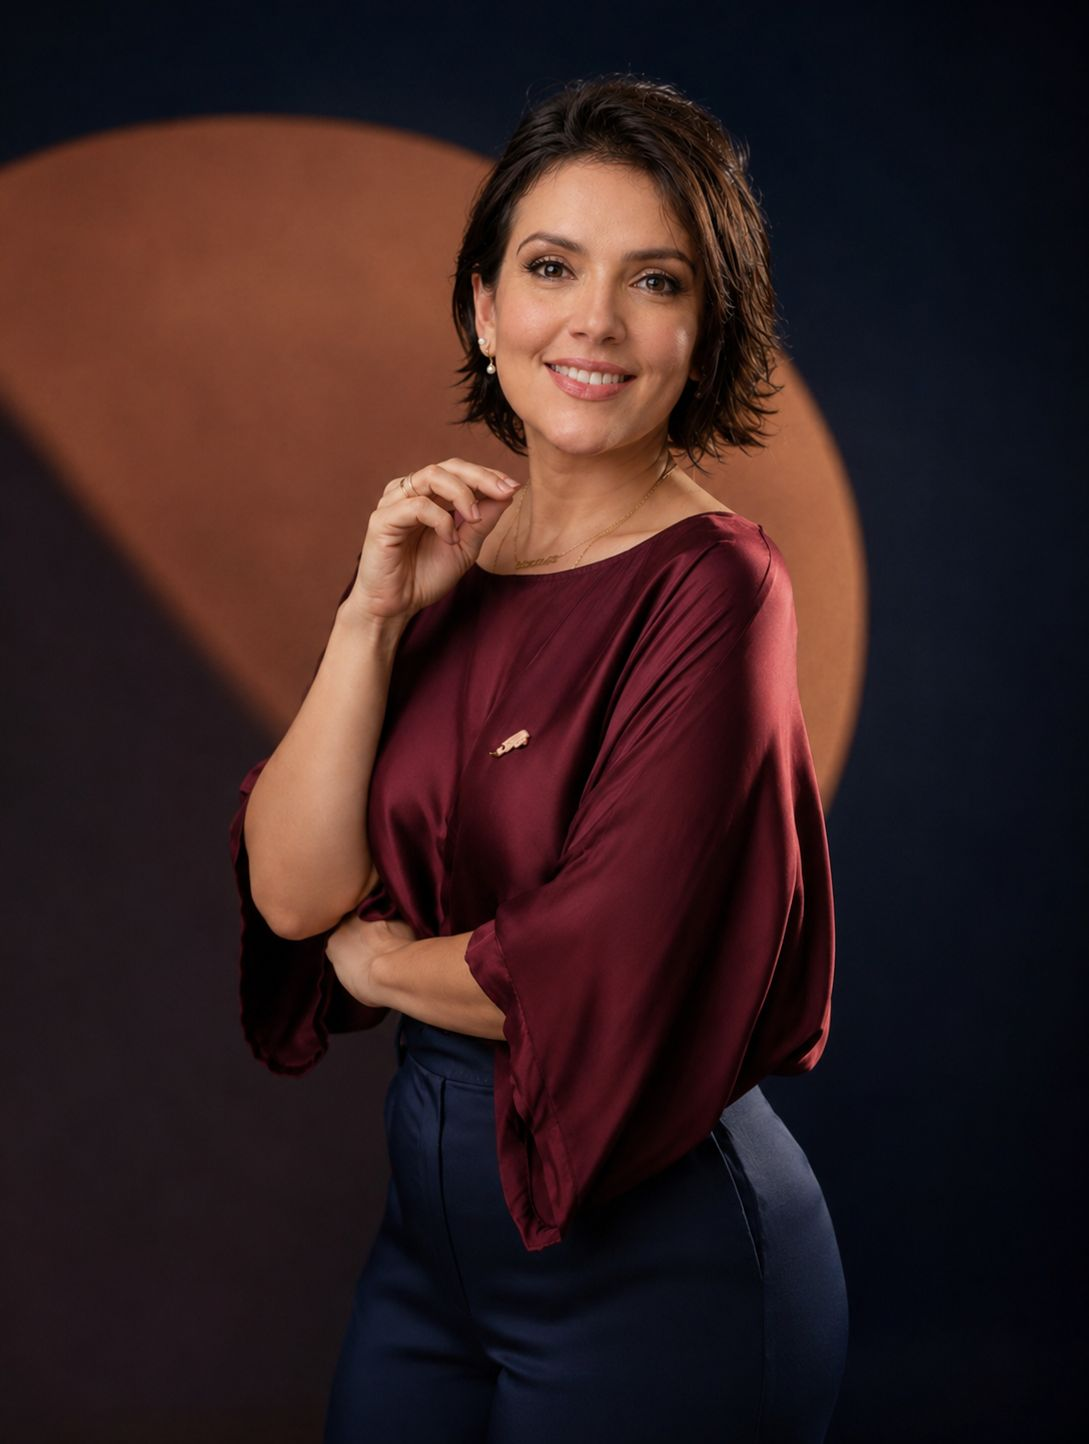
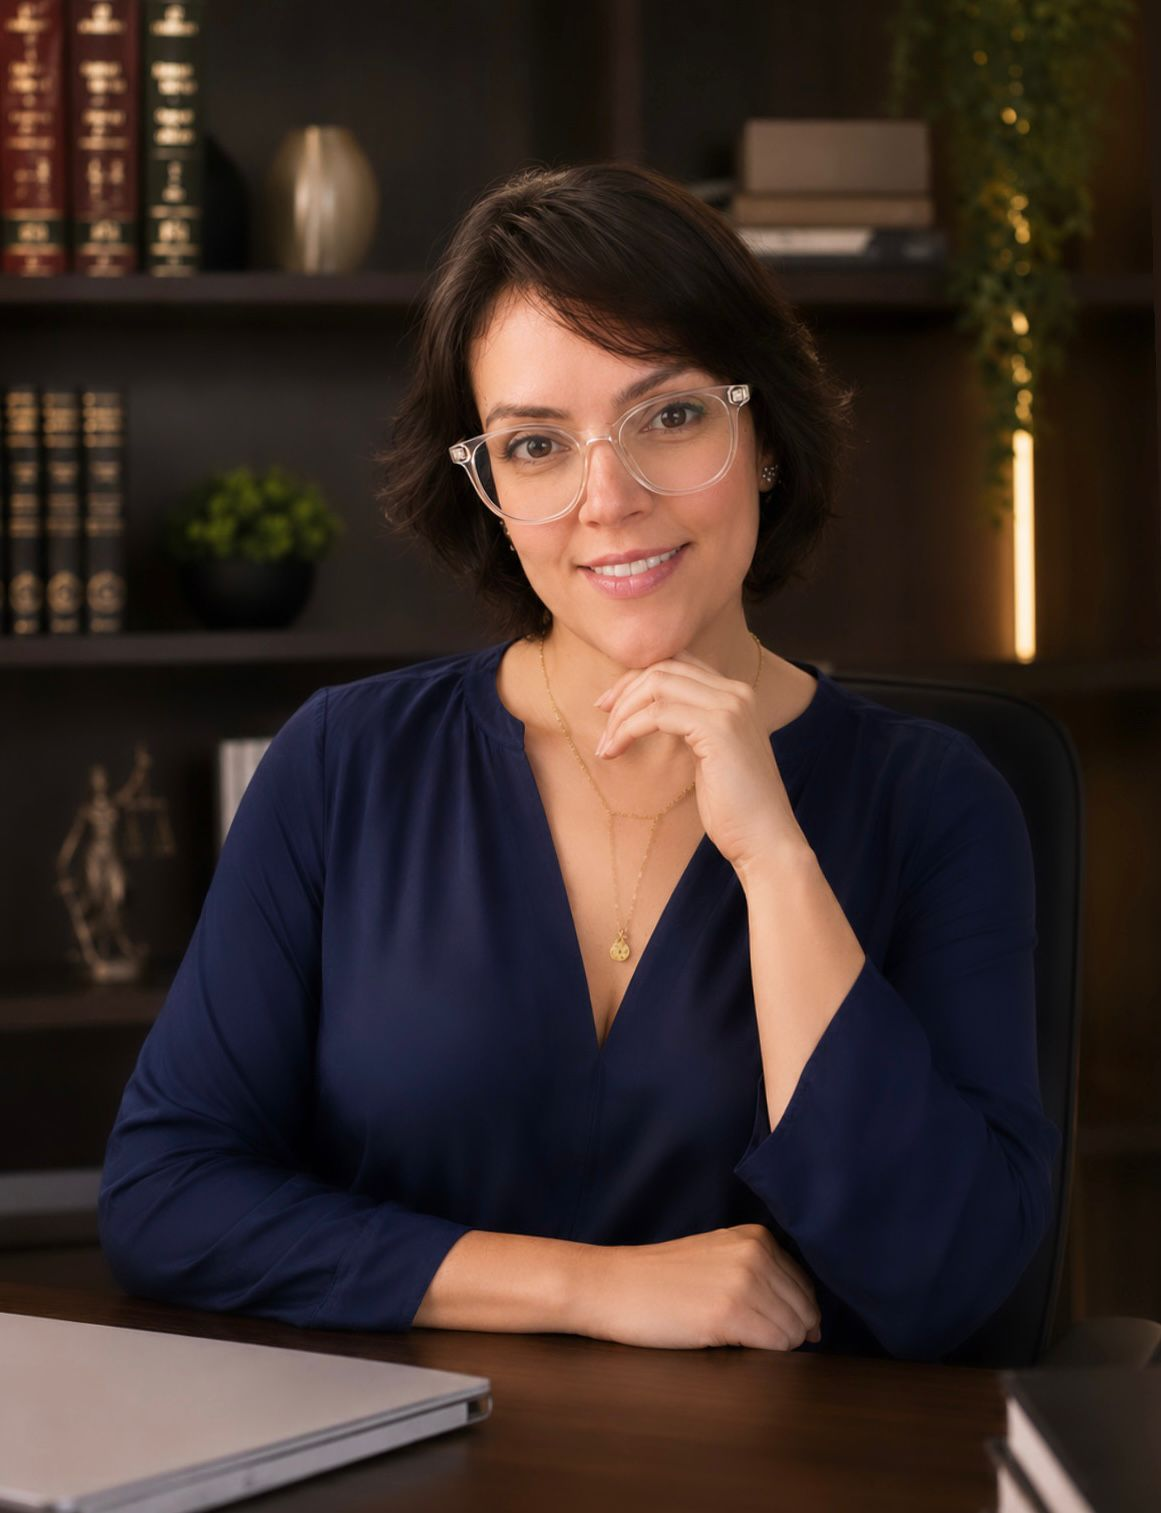
Troca foto profissional por nova imagem no escritorio + cache-busting v5

diff --git a/index.html b/index.html
@@ -10,14 +10,14 @@
   <meta property="og:title" content="Natalia Oliveira — Advocacia | Imigração para os EUA" />
   <meta property="og:description" content="Especialista em Imigração Estadunidense. Direito com Propósito." />
   <meta property="og:type" content="website" />
-  <meta property="og:image" content="assets/natalia.jpg" />
+  <meta property="og:image" content="assets/natalia.jpg?v=5" />
 
   <link rel="preconnect" href="https://fonts.googleapis.com" />
   <link rel="preconnect" href="https://fonts.gstatic.com" crossorigin />
   <link href="https://fonts.googleapis.com/css2?family=Cormorant+Garamond:wght@400;500;600;700&family=Jost:wght@300;400;500&display=swap" rel="stylesheet" />
 
-  <link rel="icon" type="image/svg+xml" href="assets/logo.svg?v=4" />
-  <link rel="stylesheet" href="styles.css?v=4" />
+  <link rel="icon" type="image/svg+xml" href="assets/logo.svg?v=5" />
+  <link rel="stylesheet" href="styles.css?v=5" />
 </head>
 <body>
 
@@ -25,7 +25,7 @@
   <header class="header" id="header">
     <div class="container header__inner">
       <a href="#inicio" class="brand" aria-label="Natalia Oliveira — início">
-        <img src="assets/logo.svg?v=4" alt="" class="brand__logo" />
+        <img src="assets/logo.svg?v=5" alt="" class="brand__logo" />
         <span class="brand__text">
           <strong>Natalia Oliveira</strong>
           <small data-pt="Advocacia" data-en="Attorney at Law">Advocacia</small>
@@ -78,7 +78,7 @@
     <div class="container sobre__grid">
       <div class="sobre__media reveal">
         <div class="sobre__photo">
-          <img src="assets/natalia.jpg" alt="Natalia Oliveira, advogada" loading="lazy" />
+          <img src="assets/natalia.jpg?v=5" alt="Natalia Oliveira, advogada" loading="lazy" />
         </div>
       </div>
       <div class="sobre__text reveal">
@@ -207,7 +207,7 @@
   <footer class="footer">
     <div class="container footer__inner">
       <div class="footer__brand">
-        <img src="assets/logo.svg?v=4" alt="" class="brand__logo brand__logo--sm" />
+        <img src="assets/logo.svg?v=5" alt="" class="brand__logo brand__logo--sm" />
         <div>
           <strong>Natalia Oliveira</strong><br />
           <small data-pt="Advocacia · OAB/MG 179.585" data-en="Attorney at Law · OAB/MG 179.585">Advocacia · OAB/MG 179.585</small>
@@ -234,6 +234,6 @@
 
   <a href="https://wa.me/5511950341427" target="_blank" rel="noopener" class="float-btn" aria-label="WhatsApp"><span>📱</span></a>
 
-  <script src="script.js?v=4"></script>
+  <script src="script.js?v=5"></script>
 </body>
 </html>